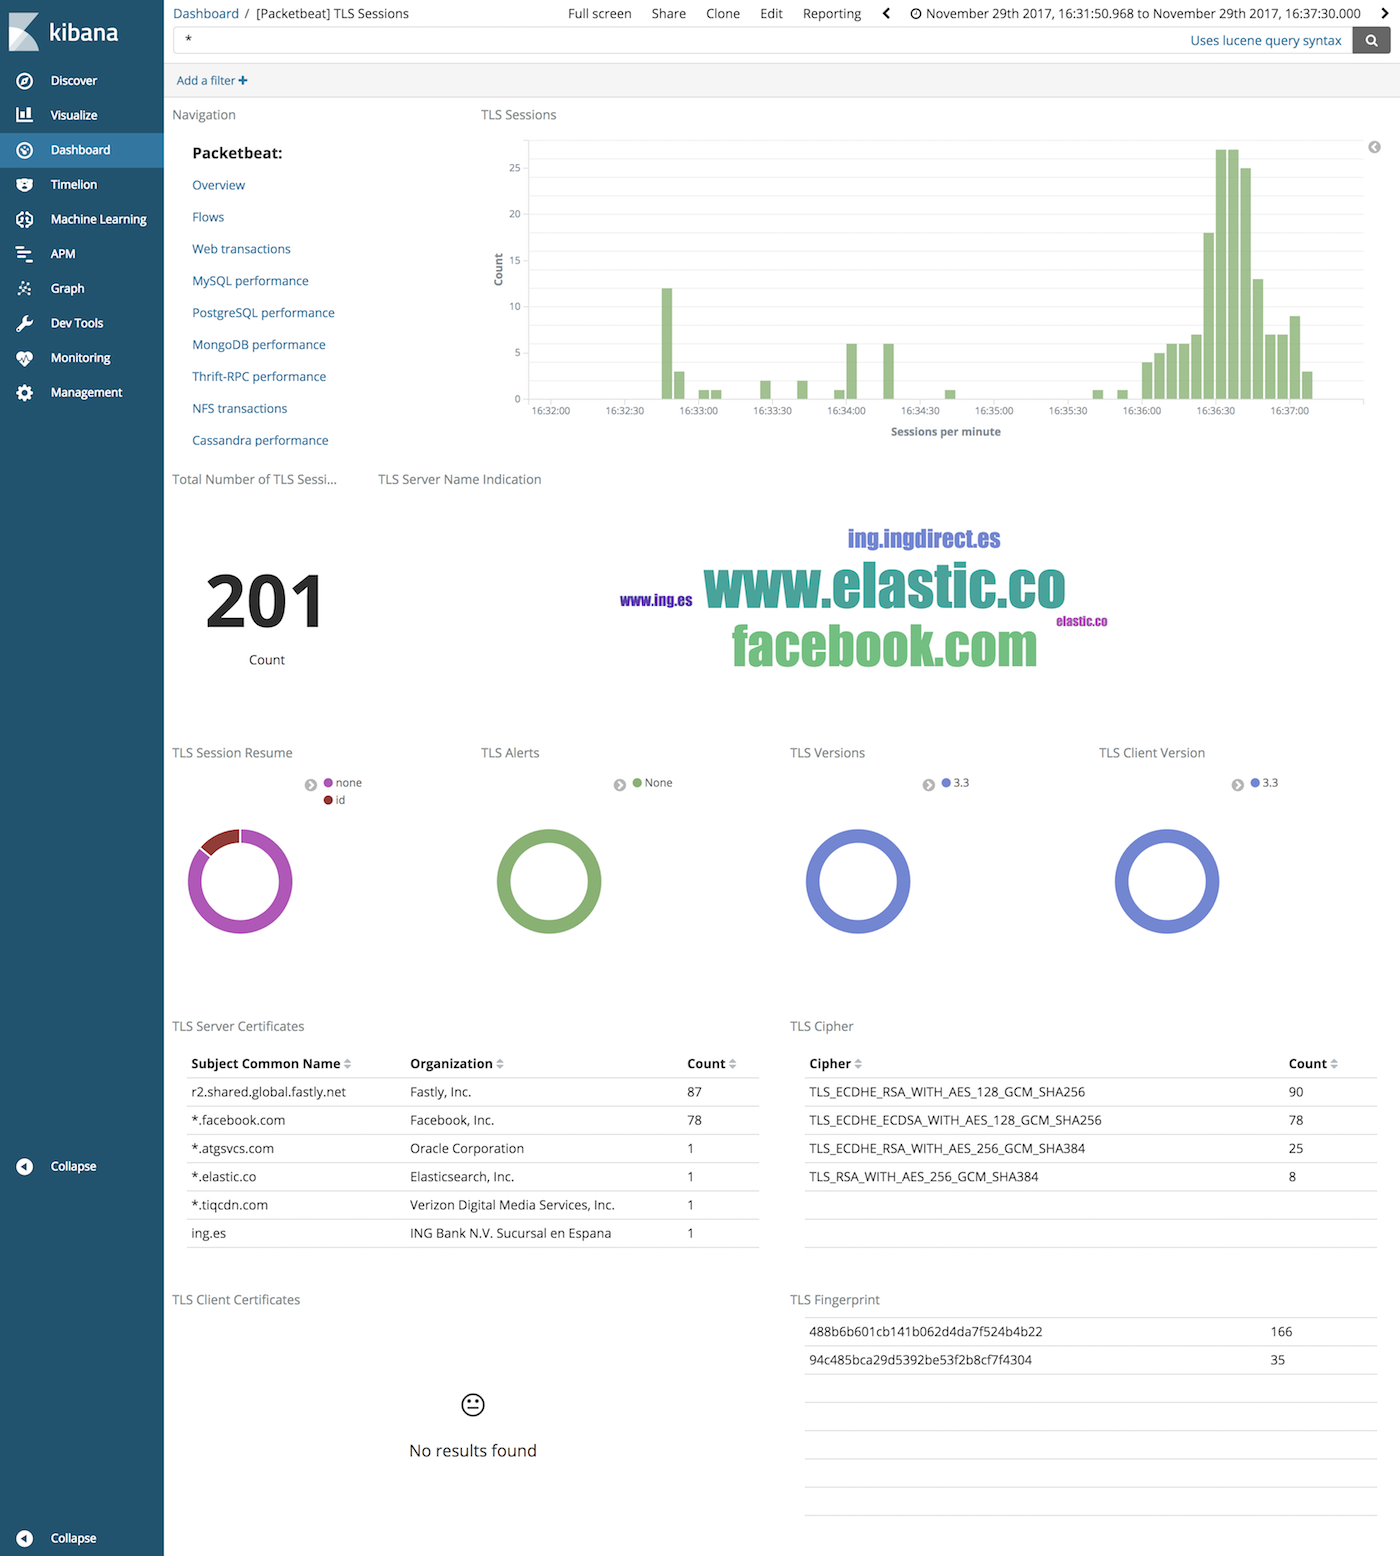
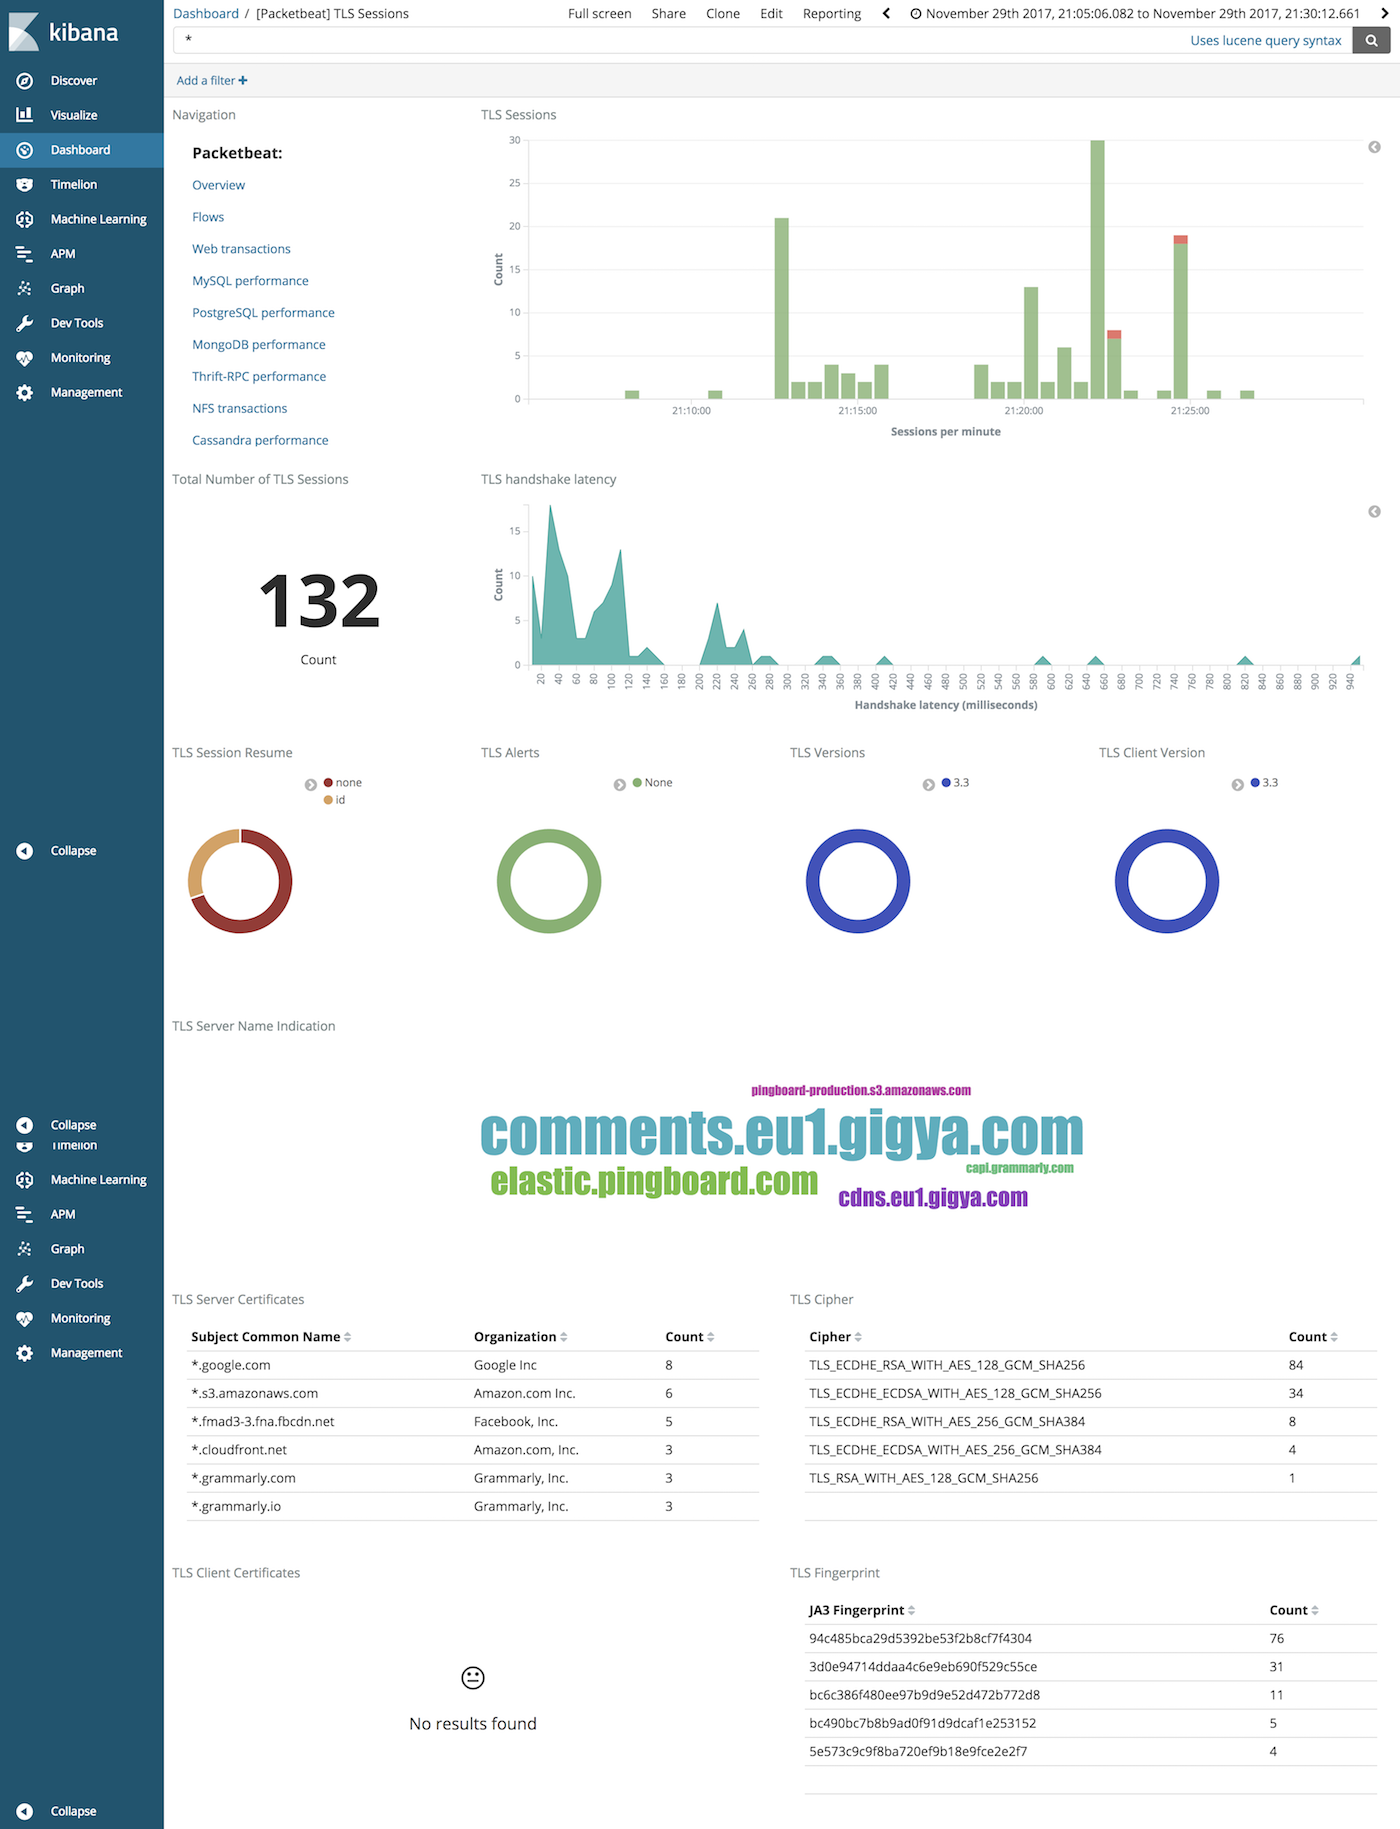
TLS: report handshake latency (#5766)
* TLS: Calculate handshake latency

The time it takes for the handshake to complete is saved to
the `responsetime` field.

* Updated dashboard

* More elegant unit conversion

* Make tests not dependent on `responsetime` field

diff --git a/packetbeat/protos/tls/tls.go b/packetbeat/protos/tls/tls.go
@@ -26,6 +26,7 @@ type tlsConnectionData struct {
 
 	handshakeCompleted int8
 	eventSent          bool
+	startTime, endTime time.Time
 }
 
 // TLS protocol plugin
@@ -103,6 +104,9 @@ func (plugin *tlsPlugin) Parse(
 	defer logp.Recover("ParseTLS exception")
 
 	conn := ensureTLSConnection(private)
+	if private == nil {
+		conn.startTime = pkt.Ts
+	}
 	conn = plugin.doParse(conn, pkt, tcptuple, dir)
 	if conn == nil {
 		return nil
@@ -171,6 +175,7 @@ func (plugin *tlsPlugin) doParse(
 		case resultEncrypted:
 			conn.handshakeCompleted |= 1 << dir
 			if conn.handshakeCompleted == 3 {
+				conn.endTime = pkt.Ts
 				plugin.sendEvent(conn)
 			}
 		}
@@ -341,6 +346,12 @@ func (plugin *tlsPlugin) createEvent(conn *tlsConnectionData) beat.Event {
 		if list, ok := value.([]string); ok && len(list) > 0 {
 			fields["server"] = list[0]
 		}
+	}
+
+	// set "responsetime" if handshake completed
+	responseTime := int32(conn.endTime.Sub(conn.startTime) / time.Millisecond)
+	if responseTime >= 0 {
+		fields["responsetime"] = responseTime
 	}
 
 	timestamp := time.Now()

diff --git a/packetbeat/protos/tls/tls_test.go b/packetbeat/protos/tls/tls_test.go
@@ -150,6 +150,9 @@ func TestClientHello(t *testing.T) {
 
 	assert.Len(t, results.events, 1)
 	event := results.events[0]
+	// Remove responsetime (but fail if not present) so that the test
+	// does not depend on execution speed
+	assert.NoError(t, event.Fields.Delete("responsetime"))
 	b, err := json.Marshal(event.Fields)
 	assert.Nil(t, err)
 	assert.Equal(t, expectedClientHello, string(b))
@@ -218,6 +221,9 @@ func TestFragmentedHandshake(t *testing.T) {
 
 	assert.Len(t, results.events, 1)
 	event := results.events[0]
+	// Remove responsetime (but fail if not present) so that the test
+	// does not depend on execution speed
+	assert.NoError(t, event.Delete("responsetime"))
 	b, err := json.Marshal(event.Fields)
 	assert.Nil(t, err)
 	assert.Equal(t, expectedClientHello, string(b))